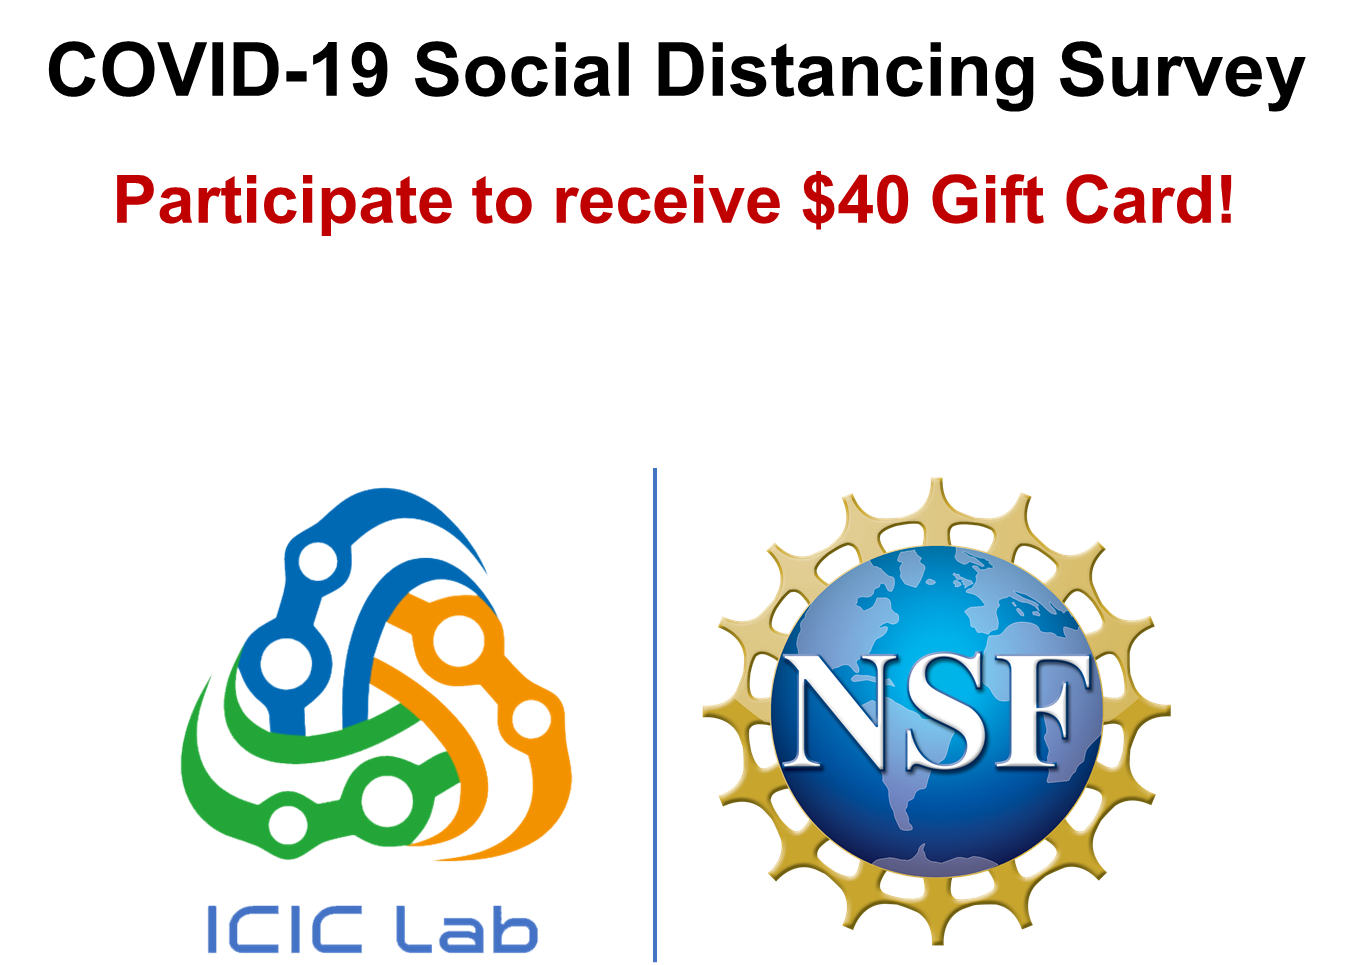
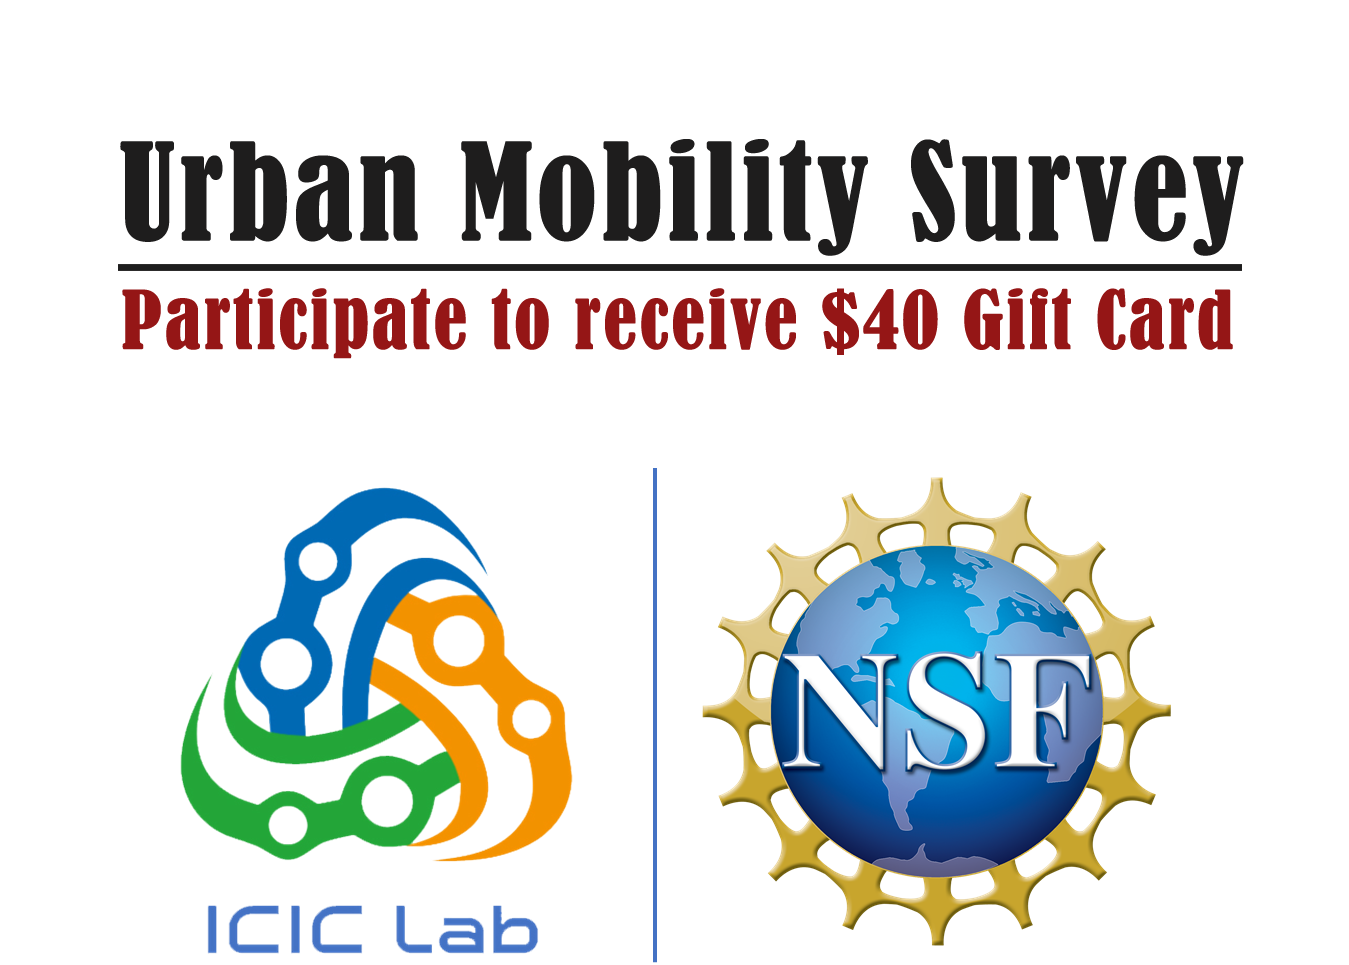
replace login img

Changed region(s): [[0.0311, 0.0311, 0.9652, 0.3731]]

diff --git a/client/components/forms/LoginComp.js b/client/components/forms/LoginComp.js
@@ -32,7 +32,7 @@ const firebaseConfig = {
 
 export default class LoginComp extends React.Component{ 
   state = {
-    email:"admin@gmail.com",
+    email:"",
     //email: "qwop@gmail.com",
     password : ""
   }
